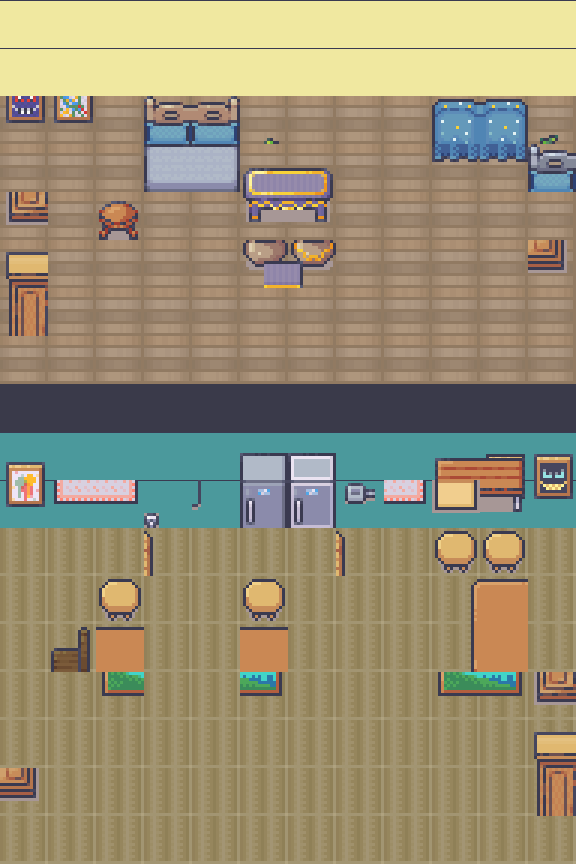
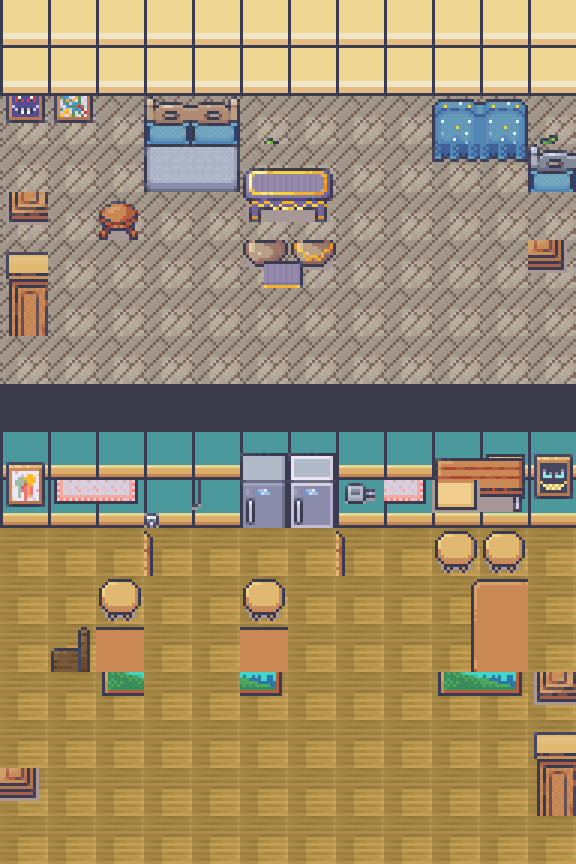
fix: use Room Builder tiles, furniture placed

diff --git a/index.html b/index.html
@@ -13,7 +13,7 @@
 <body>
 <script src="https://cdn.jsdelivr.net/npm/phaser@3.88.2/dist/phaser.min.js"></script>
 <script type="module">
-import { CafeScene } from './src/scene.js?v=6';
+import { CafeScene } from './src/scene.js?v=1772307850';
 new Phaser.Game({
   type: Phaser.AUTO,
   width: 576, height: 864,

diff --git a/scripts/compose-scene.py b/scripts/compose-scene.py
@@ -25,10 +25,10 @@ H = TOTAL_ROWS * TILE  # 864
 
 BASE = os.path.dirname(os.path.dirname(os.path.abspath(__file__)))
 SPRITES = os.path.join(BASE, "assets/sprites")
-TILESETS = os.path.join(BASE, "assets/tilesets/source")
+RB = os.path.join(BASE, "assets/research/limzu/purchased/Modern_Interiors_Full/1_Interiors/48x48/Room_Builder_subfiles_48x48")
 
-floors_sheet = Image.open(os.path.join(TILESETS, "Floors_TILESET_A2_.png"))
-walls_sheet  = Image.open(os.path.join(TILESETS, "Walls_TILESET_A4_.png"))
+floors_sheet = Image.open(os.path.join(RB, "Room_Builder_Floors_48x48.png"))
+walls_sheet  = Image.open(os.path.join(RB, "Room_Builder_Walls_48x48.png"))
 
 canvas = Image.new("RGBA", (W, H), (26, 26, 46, 255))
 
@@ -61,11 +61,11 @@ def place_sprite(name, px, py, subdir=None):
 # ── BACKGROUND ────────────────────────────────────────────────────────────────
 
 # Apartment floor: medium-brown wood planks (Floors col 14, row 0)
-apt_floor = tile(floors_sheet, 14, 0)
+apt_floor = tile(floors_sheet, 0, 34)  # herringbone wood
 fill_rect(apt_floor, 0, 0, COLS, APT_ROWS)
 
 # Apartment walls: cream/warm-white (Walls col 0, row 3)
-apt_wall = tile(walls_sheet, 0, 3)
+apt_wall = tile(walls_sheet, 0, 19)  # cream
 fill_rect(apt_wall, 0, 0, COLS, 2)
 
 # Ceiling slab
@@ -74,11 +74,11 @@ fill_rect(slab, 0, APT_ROWS, COLS, APT_ROWS + 1)
 
 # Café floor: warm golden planks (Floors col 8, row 9)
 cafe_start = APT_ROWS + SLAB_ROWS   # row 9  →  y = 432
-cafe_floor = tile(floors_sheet, 8, 9)
+cafe_floor = tile(floors_sheet, 0, 12)  # golden honey wood
 fill_rect(cafe_floor, 0, cafe_start, COLS, cafe_start + CAFE_ROWS)
 
 # Café walls: teal (Walls col 12, row 13)
-cafe_wall = tile(walls_sheet, 12, 13)
+cafe_wall = tile(walls_sheet, 22, 13)  # deep teal
 fill_rect(cafe_wall, 0, cafe_start, COLS, cafe_start + 2)
 
 
